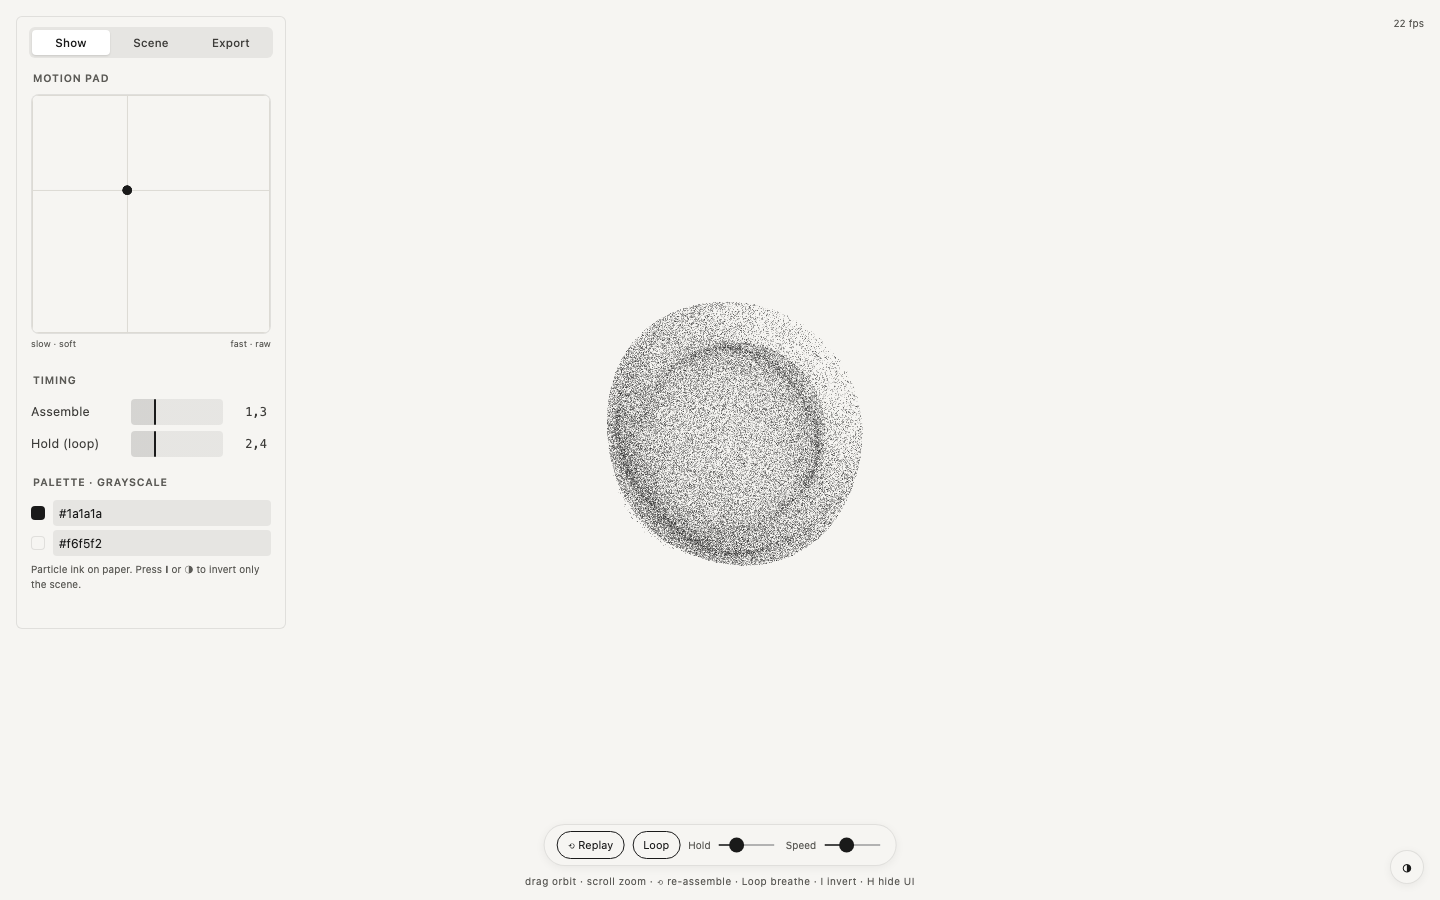
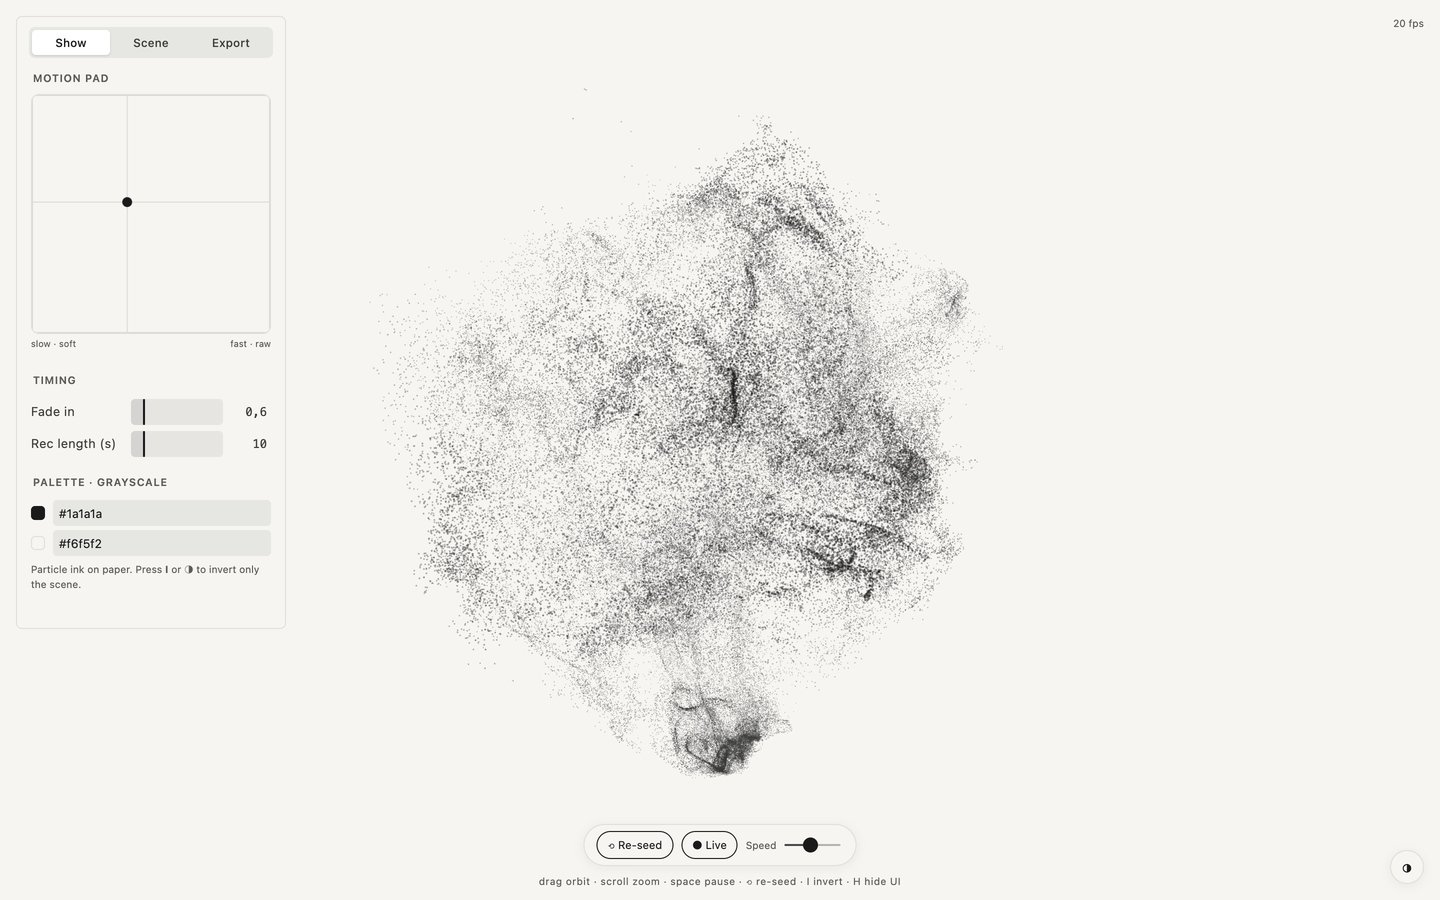
Particles 3D v2: a living cloud on the GPU (curl-noise flow, four moods)

Changed region(s): [[0.2812, 0.1556, 0.6875, 0.8711], [0.375, 0.9333, 0.625, 0.9956], [0.0312, 0.4356, 0.0625, 0.4978]]

diff --git a/index.html b/index.html
@@ -278,7 +278,9 @@ function main() {
       cohesion: .9,
       layers: .6,
       fog: .7,
-      veil: .7
+      veil: 1,
+      soft: 0,
+      mix: .6
     },
     motion: {
       x: .4,
@@ -304,8 +306,8 @@ function main() {
     steps: 96,
     dt: 1 / 24
   };
-  const NOISE = `\n    vec3 hash3(vec3 p){\n      p=vec3(dot(p,vec3(127.1,311.7,74.7)),dot(p,vec3(269.5,183.3,246.1)),dot(p,vec3(113.5,271.9,124.6)));\n      return -1.0+2.0*fract(sin(p)*43758.5453123); }\n    vec4 noised(vec3 x){\n      vec3 i=floor(x), f=fract(x);\n      vec3 u=f*f*f*(f*(f*6.0-15.0)+10.0), du=30.0*f*f*(f*(f-2.0)+1.0);\n      vec3 ga=hash3(i), gb=hash3(i+vec3(1,0,0)), gc=hash3(i+vec3(0,1,0)), gd=hash3(i+vec3(1,1,0));\n      vec3 ge=hash3(i+vec3(0,0,1)), gf=hash3(i+vec3(1,0,1)), gg=hash3(i+vec3(0,1,1)), gh=hash3(i+vec3(1,1,1));\n      float va=dot(ga,f), vb=dot(gb,f-vec3(1,0,0)), vc=dot(gc,f-vec3(0,1,0)), vd=dot(gd,f-vec3(1,1,0));\n      float ve=dot(ge,f-vec3(0,0,1)), vf=dot(gf,f-vec3(1,0,1)), vg=dot(gg,f-vec3(0,1,1)), vh=dot(gh,f-vec3(1,1,1));\n      return vec4(\n        va+u.x*(vb-va)+u.y*(vc-va)+u.z*(ve-va)+u.x*u.y*(va-vb-vc+vd)+u.y*u.z*(va-vc-ve+vg)+u.z*u.x*(va-vb-ve+vf)+(-va+vb+vc-vd+ve-vf-vg+vh)*u.x*u.y*u.z,\n        ga+u.x*(gb-ga)+u.y*(gc-ga)+u.z*(ge-ga)+u.x*u.y*(ga-gb-gc+gd)+u.y*u.z*(ga-gc-ge+gg)+u.z*u.x*(ga-gb-ge+gf)+(-ga+gb+gc-gd+ge-gf-gg+gh)*u.x*u.y*u.z\n        +du*(vec3(vb,vc,ve)-va+u.yzx*vec3(va-vb-vc+vd,va-vc-ve+vg,va-vb-ve+vf)+u.zxy*vec3(va-vb-ve+vf,va-vb-vc+vd,va-vc-ve+vg)+u.yzx*u.zxy*(-va+vb+vc-vd+ve-vf-vg+vh))); }\n    // divergence-free field: curl of a vector potential made of three noises\n    vec3 curl(vec3 p){\n      vec3 g0=noised(p).yzw, g1=noised(p+vec3(31.4,17.2,9.1)).yzw, g2=noised(p+vec3(-12.7,24.6,41.3)).yzw;\n      return vec3(g2.y-g1.z, g0.z-g2.x, g1.x-g0.y); }`;
-  const UPD = `#version 300 es\n    precision highp float;\n    in vec3 aPos; in vec3 aVel; in float aSeed; in float aLay;\n    uniform float uTime,uDt,uFlow,uNoise,uSwirl,uR,uCoh,uPar,uTau,uShape,uVeil;\n    uniform vec3 uCtr,uCtrV,uAx;\n    out vec3 vPos; out vec3 vVel;\n    ${NOISE}\n    float sdf(vec3 q){\n      vec3 s=q/uAx;\n      if(uShape<1.5)  return (length(s)-uR)*min(uAx.x,min(uAx.y,uAx.z));\n      if(uShape<2.5){ vec3 d=abs(s)-vec3(uR*0.78); return length(max(d,0.0))+min(max(d.x,max(d.y,d.z)),0.0); }\n      if(uShape<3.5){ vec2 t=vec2(length(s.xz)-uR*0.85,s.y); return length(t)-uR*0.36; }\n      vec2 d=vec2(length(s.xz)-uR,abs(s.y)-uR*0.05); return min(max(d.x,d.y),0.0)+length(max(d,0.0)); }\n    void main(){\n      float t=uTime, l=aLay;\n      float grp=min(2.0,floor(l*3.0));                       // three layers: own veils, own pace\n      float sp=1.0+uPar*(grp-1.0)*0.55;\n      vec3 q=aPos-uCtr;\n      vec3 off=vec3(sin(t*0.071),cos(t*0.053),sin(t*0.062+1.0))*2.7+vec3(grp*13.7,grp*5.3,-grp*8.1);\n      float f1=uNoise/uR;\n      // large, slow curl: moves matter along itself without piling up\n      vec3 c=curl(q*f1*0.62+off)+0.35*curl(q*f1*1.45+off*1.7+vec3(7.0,3.0,5.0));\n      vec3 vt=c*(uFlow*uR*0.5)*sp;\n      // veils: slide toward the zero-set of a slow scalar field, so the cloud gathers into thin moving sheets\n      vec4 nv=noised(q*f1*0.78+off*0.8+vec3(3.0,9.0,1.0));\n      vt-=uVeil*uR*0.55*nv.x*nv.yzw*sp;\n      float rr=length(q.xz)/uR;\n      float om=uSwirl*0.5*(0.75+0.25*sin(t*0.29))/(1.0+0.8*rr*rr)*sp;\n      vt+=om*vec3(-q.z,0.0,q.x);\n      // soft form: each particle keeps its own nested depth band, so the volume stays layered\n      float fill=uShape<0.5?0.0:(uShape<1.5?0.95:(uShape<2.5?0.78:(uShape<3.5?0.36:0.05)));\n      float h=uR*mix(0.06,0.2,aSeed);\n      float d=sdf(q)+uR*fill*(1.0-pow(aSeed,0.55));\n      float e=d-clamp(d,-h,h);\n      vec2 ep=vec2(0.02*uR,0.0);\n      vec3 gr=normalize(vec3(sdf(q+ep.xyy)-sdf(q-ep.xyy),sdf(q+ep.yxy)-sdf(q-ep.yxy),sdf(q+ep.yyx)-sdf(q-ep.yyx))+1e-5);\n      vt-=gr*clamp(e*uCoh*3.2,-uR*1.6,uR*1.6);\n      vt+=uCtrV;\n      float lo=length(q); vt-=q/max(lo,1e-4)*max(0.0,lo-uR*2.2)*1.4;\n      // first-order relaxation: acceleration is bounded, a kink in velocity cannot appear\n      vec3 v=aVel+(vt-aVel)*(1.0-exp(-uDt/uTau));\n      vPos=aPos+v*uDt; vVel=v;\n    }`;
+  const NOISE = `\n    vec3 hash3(vec3 p){\n      p=vec3(dot(p,vec3(127.1,311.7,74.7)),dot(p,vec3(269.5,183.3,246.1)),dot(p,vec3(113.5,271.9,124.6)));\n      return -1.0+2.0*fract(sin(p)*43758.5453123); }\n    vec4 noised(vec3 x){\n      vec3 i=floor(x), f=fract(x);\n      vec3 u=f*f*f*(f*(f*6.0-15.0)+10.0), du=30.0*f*f*(f*(f-2.0)+1.0);\n      vec3 ga=hash3(i), gb=hash3(i+vec3(1,0,0)), gc=hash3(i+vec3(0,1,0)), gd=hash3(i+vec3(1,1,0));\n      vec3 ge=hash3(i+vec3(0,0,1)), gf=hash3(i+vec3(1,0,1)), gg=hash3(i+vec3(0,1,1)), gh=hash3(i+vec3(1,1,1));\n      float va=dot(ga,f), vb=dot(gb,f-vec3(1,0,0)), vc=dot(gc,f-vec3(0,1,0)), vd=dot(gd,f-vec3(1,1,0));\n      float ve=dot(ge,f-vec3(0,0,1)), vf=dot(gf,f-vec3(1,0,1)), vg=dot(gg,f-vec3(0,1,1)), vh=dot(gh,f-vec3(1,1,1));\n      return vec4(\n        va+u.x*(vb-va)+u.y*(vc-va)+u.z*(ve-va)+u.x*u.y*(va-vb-vc+vd)+u.y*u.z*(va-vc-ve+vg)+u.z*u.x*(va-vb-ve+vf)+(-va+vb+vc-vd+ve-vf-vg+vh)*u.x*u.y*u.z,\n        ga+u.x*(gb-ga)+u.y*(gc-ga)+u.z*(ge-ga)+u.x*u.y*(ga-gb-gc+gd)+u.y*u.z*(ga-gc-ge+gg)+u.z*u.x*(ga-gb-ge+gf)+(-ga+gb+gc-gd+ge-gf-gg+gh)*u.x*u.y*u.z\n        +du*(vec3(vb,vc,ve)-va+u.yzx*vec3(va-vb-vc+vd,va-vc-ve+vg,va-vb-ve+vf)+u.zxy*vec3(va-vb-ve+vf,va-vb-vc+vd,va-vc-ve+vg)+u.yzx*u.zxy*(-va+vb+vc-vd+ve-vf-vg+vh))); }\n    // divergence-free field: curl of a vector potential A made of three noises, windowed by W:\n    // curl(W·A) = W·curl A + ∇W × A. Where W reaches 0 the flow is tangent to the edge, so nothing ever leaves the form\n    vec3 curlW(vec3 p,float W,vec3 gW,float F){\n      vec4 n0=noised(p), n1=noised(p+vec3(31.4,17.2,9.1)), n2=noised(p+vec3(-12.7,24.6,41.3));\n      vec3 A=vec3(n0.x,n1.x,n2.x);\n      vec3 cu=vec3(n2.z-n1.w, n0.w-n2.y, n1.y-n0.z);\n      return W*cu+cross(gW,A)/F; }`;
+  const UPD = `#version 300 es\n    precision highp float;\n    in vec3 aPos; in vec3 aVel; in float aSeed; in float aLay;\n    uniform float uTime,uDt,uFlow,uNoise,uSwirl,uR,uCoh,uPar,uTau,uShape,uVeil,uWid,uMix;\n    uniform vec3 uCtr,uCtrV,uAx;\n    out vec3 vPos; out vec3 vVel;\n    ${NOISE}\n    float sdf(vec3 q){\n      vec3 s=q/uAx;\n      if(uShape<1.5)  return (length(s)-uR)*min(uAx.x,min(uAx.y,uAx.z));\n      if(uShape<2.5){ vec3 d=abs(s)-vec3(uR*0.78); return length(max(d,0.0))+min(max(d.x,max(d.y,d.z)),0.0); }\n      if(uShape<3.5){ vec2 t=vec2(length(s.xz)-uR*0.85,s.y); return length(t)-uR*0.36; }\n      vec2 d=vec2(length(s.xz)-uR,abs(s.y)-uR*0.05); return min(max(d.x,d.y),0.0)+length(max(d,0.0)); }\n    void main(){\n      float t=uTime, l=aLay;\n      float grp=min(2.0,floor(l*3.0));                       // three layers: own veils, own pace\n      float sp=1.0+uPar*(grp-1.0)*0.55;\n      vec3 q=aPos-uCtr;\n      vec3 off=vec3(sin(t*0.071),cos(t*0.053),sin(t*0.062+1.0))*2.7+vec3(grp*13.7,grp*5.3,-grp*8.1);\n      float f1=uNoise/uR;\n      // distance to the soft form and its gradient\n      float d=sdf(q);\n      vec2 ep=vec2(0.02*uR,0.0);\n      vec3 gr=normalize(vec3(sdf(q+ep.xyy)-sdf(q-ep.xyy),sdf(q+ep.yxy)-sdf(q-ep.yxy),sdf(q+ep.yyx)-sdf(q-ep.yyx))+1e-5);\n      bool shell=uShape<0.5;\n      float dd=shell?abs(d)-uR*0.2:d;                         // <0 inside the allowed region\n      vec3 gdd=shell?gr*sign(d):gr;\n      float wid=shell?uR*0.22:uR*uWid;\n      float x=clamp(-dd/wid,0.0,1.0);\n      float W=x*x*(3.0-2.0*x), dW=6.0*x*(1.0-x)/wid;          // smoothstep window and its slope\n      vec3 gW=-gdd*dW;\n      if(uWid<0.001){ W=1.0; gW=vec3(0.0); }                  // no window: an open, soft-edged cloud\n      // large, slow curl, then finer octaves: matter moves along itself without piling up\n      vec3 c=curlW(q*f1*0.62+off,W,gW,f1*0.62)\n            +0.4*curlW(q*f1*1.45+off*1.7+vec3(7.0,3.0,5.0),W,gW,f1*1.45)\n            +0.3*curlW(q*f1*3.4+off*2.3+vec3(2.0,8.0,4.0),W,gW,f1*3.4)\n            +uMix*curlW(q*f1*8.0+off*3.1+vec3(5.0,1.0,9.0),W,gW,f1*8.0);\n      vec3 vt=c*(uFlow*uR*0.5)*sp;\n      // veils: slide toward the zero-set of a slow scalar field, so the cloud gathers into soft moving sheets\n      vec4 nv=noised(q*f1*0.78+off*0.8+vec3(3.0,9.0,1.0));\n      vt-=W*uVeil*uR*0.55*(nv.x-clamp(nv.x,-0.1,0.1))*nv.yzw*sp;\n      float rr=length(q.xz)/uR;\n      float om=uSwirl*0.5*(0.75+0.25*sin(t*0.29))/(1.0+0.8*rr*rr)*sp;\n      vt+=om*vec3(-q.z,0.0,q.x);\n      // whatever does stray over the edge is called back gently (the form is soft, not a wall)\n      float bh=uR*mix(0.14,0.34,aSeed);\n      float e=shell?d-clamp(d,-bh,bh):max(d,0.0);\n      vt-=gr*clamp(e*abs(e)/uR*uCoh*3.0+e*uCoh*0.6,-uR*1.6,uR*1.6);\n      vt+=uCtrV;\n      float lo=length(q); vt-=q/max(lo,1e-4)*max(0.0,lo-uR*2.2)*1.4;\n      // first-order relaxation: acceleration is bounded, a kink in velocity cannot appear\n      vec3 v=aVel+(vt-aVel)*(1.0-exp(-uDt/uTau));\n      vPos=aPos+v*uDt; vVel=v;\n    }`;
   const UPD_FS = `#version 300 es\n    precision mediump float; out vec4 o; void main(){ o=vec4(0); }`;
   const VS = `#version 300 es\n    precision highp float;\n    in vec3 aPos; in vec3 aVel; in float aSeed; in float aLay;\n    uniform mat4 uProj,uView;\n    uniform float uSize,uReveal,uDpr,uCamR,uFogR,uFog,uVref;\n    out float vA; out float vF;\n    void main(){\n      float rv=smoothstep(0.0,1.0,clamp(uReveal*1.15-aSeed*0.15,0.0,1.0));\n      vec4 mv=uView*vec4(aPos,1.0);\n      gl_Position=uProj*mv;\n      float depth=max(0.001,-mv.z);\n      float far=clamp((depth-(uCamR-uFogR))/(2.0*uFogR),0.0,1.0);   // 0 near the camera, 1 at the back of the flock\n      float spd=clamp(length(aVel)/uVref,0.0,1.0);\n      vF=far*uFog;\n      vA=rv*(1.0-0.55*vF)*(0.62+0.38*spd);\n      gl_PointSize=uSize*mix(0.8,1.3,aLay)*(4.0/depth)*uDpr*(0.4+0.6*rv)*(1.18-0.34*far);\n    }`;
   const FS = `#version 300 es\n    precision mediump float;\n    in float vA; in float vF; uniform vec3 uColor,uPaper; out vec4 o;\n    void main(){ vec2 d=gl_PointCoord-0.5; float m=smoothstep(0.5,0.12,length(d));\n      if(m<=0.001) discard; o=vec4(mix(uColor,uPaper,vF*0.55), m*0.42*vA); }`;
@@ -331,7 +333,7 @@ function main() {
     names.forEach(k => o[k] = gl.getUniformLocation(p, k));
     return o;
   };
-  const UU = uni(progU, [ 'uTime', 'uDt', 'uFlow', 'uNoise', 'uSwirl', 'uR', 'uCoh', 'uPar', 'uTau', 'uShape', 'uVeil', 'uCtr', 'uCtrV', 'uAx' ]);
+  const UU = uni(progU, [ 'uTime', 'uDt', 'uFlow', 'uNoise', 'uSwirl', 'uR', 'uCoh', 'uPar', 'uTau', 'uShape', 'uVeil', 'uWid', 'uMix', 'uCtr', 'uCtrV', 'uAx' ]);
   const UD = uni(progD, [ 'uProj', 'uView', 'uSize', 'uReveal', 'uDpr', 'uCamR', 'uFogR', 'uFog', 'uVref', 'uColor', 'uPaper' ]);
   const proj = new Float32Array(16), view = new Float32Array(16);
   const V = [ 0, 0, 0 ];
@@ -363,7 +365,7 @@ function main() {
       V[2] = Math.sin(u) * Math.sin(th);
     }
   }
-  let N = 0, cur = 0, sBuf = [ null, null ], seedBuf = null, layBuf = null, vaoU = [ null, null ], vaoD = [ null, null ];
+  let N = 0, cur = 0, sBuf = [ null, null ], tfo = [ null, null ], seedBuf = null, layBuf = null, vaoU = [ null, null ], vaoD = [ null, null ];
   const R0 = () => state.scene.spread * 1;
   function buildParticles() {
     N = Math.min(MAXCOUNT, Math.round(state.scene.count));
@@ -392,6 +394,13 @@ function main() {
     sBuf = [ mk(st, gl.DYNAMIC_COPY), mk(new Float32Array(N * 6), gl.DYNAMIC_COPY) ];
     seedBuf = mk(seed, gl.STATIC_DRAW);
     layBuf = mk(lay, gl.STATIC_DRAW);
+    [ 0, 1 ].forEach(k => {
+      if (tfo[k]) gl.deleteTransformFeedback(tfo[k]);
+      tfo[k] = gl.createTransformFeedback();
+      gl.bindTransformFeedback(gl.TRANSFORM_FEEDBACK, tfo[k]);
+      gl.bindBufferBase(gl.TRANSFORM_FEEDBACK_BUFFER, 0, sBuf[k]);
+    });
+    gl.bindTransformFeedback(gl.TRANSFORM_FEEDBACK, null);
     const vao = (prog, k) => {
       const v = gl.createVertexArray();
       gl.bindVertexArray(v);
@@ -440,20 +449,22 @@ function main() {
     gl.uniform1f(UU.uR, b.R);
     gl.uniform1f(UU.uCoh, s.cohesion);
     gl.uniform1f(UU.uPar, s.layers);
-    gl.uniform1f(UU.uTau, lerp(.95, .14, m.ease));
+    gl.uniform1f(UU.uTau, lerp(.5, .1, m.ease));
     gl.uniform1f(UU.uShape, Math.round(s.shape));
     gl.uniform1f(UU.uVeil, s.veil);
+    gl.uniform1f(UU.uWid, s.soft);
+    gl.uniform1f(UU.uMix, s.mix);
     gl.uniform3fv(UU.uCtr, b.c);
     gl.uniform3fv(UU.uCtrV, b.cv);
     gl.uniform3fv(UU.uAx, b.ax);
     gl.bindVertexArray(vaoU[cur]);
-    gl.bindBufferBase(gl.TRANSFORM_FEEDBACK_BUFFER, 0, sBuf[1 - cur]);
+    gl.bindTransformFeedback(gl.TRANSFORM_FEEDBACK, tfo[1 - cur]);
     gl.enable(gl.RASTERIZER_DISCARD);
     gl.beginTransformFeedback(gl.POINTS);
     gl.drawArrays(gl.POINTS, 0, N);
     gl.endTransformFeedback();
     gl.disable(gl.RASTERIZER_DISCARD);
-    gl.bindBufferBase(gl.TRANSFORM_FEEDBACK_BUFFER, 0, null);
+    gl.bindTransformFeedback(gl.TRANSFORM_FEEDBACK, null);
     gl.bindVertexArray(null);
     cur = 1 - cur;
   }
@@ -568,7 +579,7 @@ function main() {
   };
   const defs = {
     gShow: [ [ 'show.reveal', 'Fade in', .1, 4, .1 ], [ 'show.rec', 'Rec length (s)', 2, 60, 1 ] ],
-    gScene: [ [ 'scene.count', 'Count', 2e3, MAXCOUNT, 1e3 ], [ 'scene.spread', 'Spread', .4, 2.2, .01 ], [ 'scene.size', 'Point size', .4, 5, .05 ], [ 'scene.flow', 'Flow', 0, 2, .01 ], [ 'scene.noise', 'Turbulence', .2, 3, .01 ], [ 'scene.swirl', 'Swirl', 0, 1.5, .01 ], [ 'scene.cohesion', 'Cohesion', 0, 2, .01 ], [ 'scene.layers', 'Layer speeds', 0, 1.5, .01 ], [ 'scene.veil', 'Veil', 0, 2, .01 ], [ 'scene.fog', 'Depth fade', 0, 1, .01 ] ]
+    gScene: [ [ 'scene.count', 'Count', 2e3, MAXCOUNT, 1e3 ], [ 'scene.spread', 'Spread', .4, 2.2, .01 ], [ 'scene.size', 'Point size', .4, 5, .05 ], [ 'scene.flow', 'Flow', 0, 2, .01 ], [ 'scene.noise', 'Turbulence', .2, 3, .01 ], [ 'scene.swirl', 'Swirl', 0, 1.5, .01 ], [ 'scene.cohesion', 'Cohesion', 0, 2, .01 ], [ 'scene.layers', 'Layer speeds', 0, 1.5, .01 ], [ 'scene.veil', 'Veil', 0, 2.5, .01 ], [ 'scene.mix', 'Mixing', 0, 1.5, .01 ], [ 'scene.fog', 'Depth fade', 0, 1, .01 ] ]
   };
   function extendRange(rr, nn, v) {
     if (v > +rr.max) {
@@ -634,46 +645,54 @@ function main() {
     flock: {
       shape: 1,
       spread: 1,
-      size: 1.7,
+      size: 1.9,
       flow: .85,
       noise: 1,
       swirl: .5,
       cohesion: .6,
       layers: .6,
-      fog: .7
+      fog: .7,
+      veil: 1,
+      mix: .6
     },
     smoke: {
       shape: 1,
-      spread: 1.2,
-      size: 1.5,
-      flow: 1.2,
-      noise: 1.5,
+      spread: .95,
+      size: 1.7,
+      flow: 1.1,
+      noise: 1.4,
       swirl: .2,
-      cohesion: .25,
+      cohesion: .6,
       layers: .9,
-      fog: .8
+      fog: .8,
+      veil: 1.4,
+      mix: .8
     },
     plankton: {
       shape: 0,
-      spread: 1.1,
+      spread: .9,
       size: 1.6,
       flow: .6,
       noise: .7,
       swirl: .35,
       cohesion: .9,
       layers: .5,
-      fog: .9
+      fog: .9,
+      veil: .6,
+      mix: .4
     },
     ribbon: {
       shape: 3,
       spread: 1,
-      size: 1.6,
+      size: 1.8,
       flow: .8,
       noise: 1.1,
       swirl: .7,
       cohesion: 1,
       layers: .6,
-      fog: .7
+      fog: .7,
+      veil: 1,
+      mix: .5
     }
   };
   $('#presetSeg').addEventListener('click', e => {
@@ -872,6 +891,7 @@ function main() {
       const o = new Float32Array(n * 6);
       gl.bindBuffer(gl.COPY_READ_BUFFER, sBuf[cur]);
       gl.getBufferSubData(gl.COPY_READ_BUFFER, 0, o);
+      gl.bindBuffer(gl.COPY_READ_BUFFER, null);
       return o;
     },
     reset() {

diff --git a/README.md b/README.md
@@ -5,7 +5,7 @@
 <h1 align="center">Particles 3D</h1>
 
 <p align="center">
-  A WebGL2 cloud of up to 300,000 particles<br>
+  A living cloud of particles that flows like smoke or a flock<br>
   one HTML file · runs in the browser · no install · free and open source
 </p>
 
@@ -17,13 +17,13 @@
 
 ---
 
-A cloud that assembles itself, holds and breathes out again. Plain WebGL2, no libraries.
+Thousands of points that never stop moving: they drift in a curl-noise flow, keep a soft shape and breathe in layers at different speeds. Plain WebGL2, no libraries.
 
 ## What it does
 
-- **Up to 300,000 particles** on a desktop (90,000 on phones)
-- **Home shapes:** sphere, ball, box, torus and disc; presets cloud, shell, swirl and ribbon
-- **Show:** assemble, hold and loop, with a motion pad for speed and character
+- **Four moods:** Flock, Smoke, Plankton and Ribbon
+- **Alive by design:** each point has a speed, the flow sets the speed and the position follows, so the motion never jerks
+- **Depth:** three layers at different speeds and fog by distance
 - **Grayscale palette** with a one-key invert
 - **Record** the canvas to WebM, export PNG and a JSON config
 
